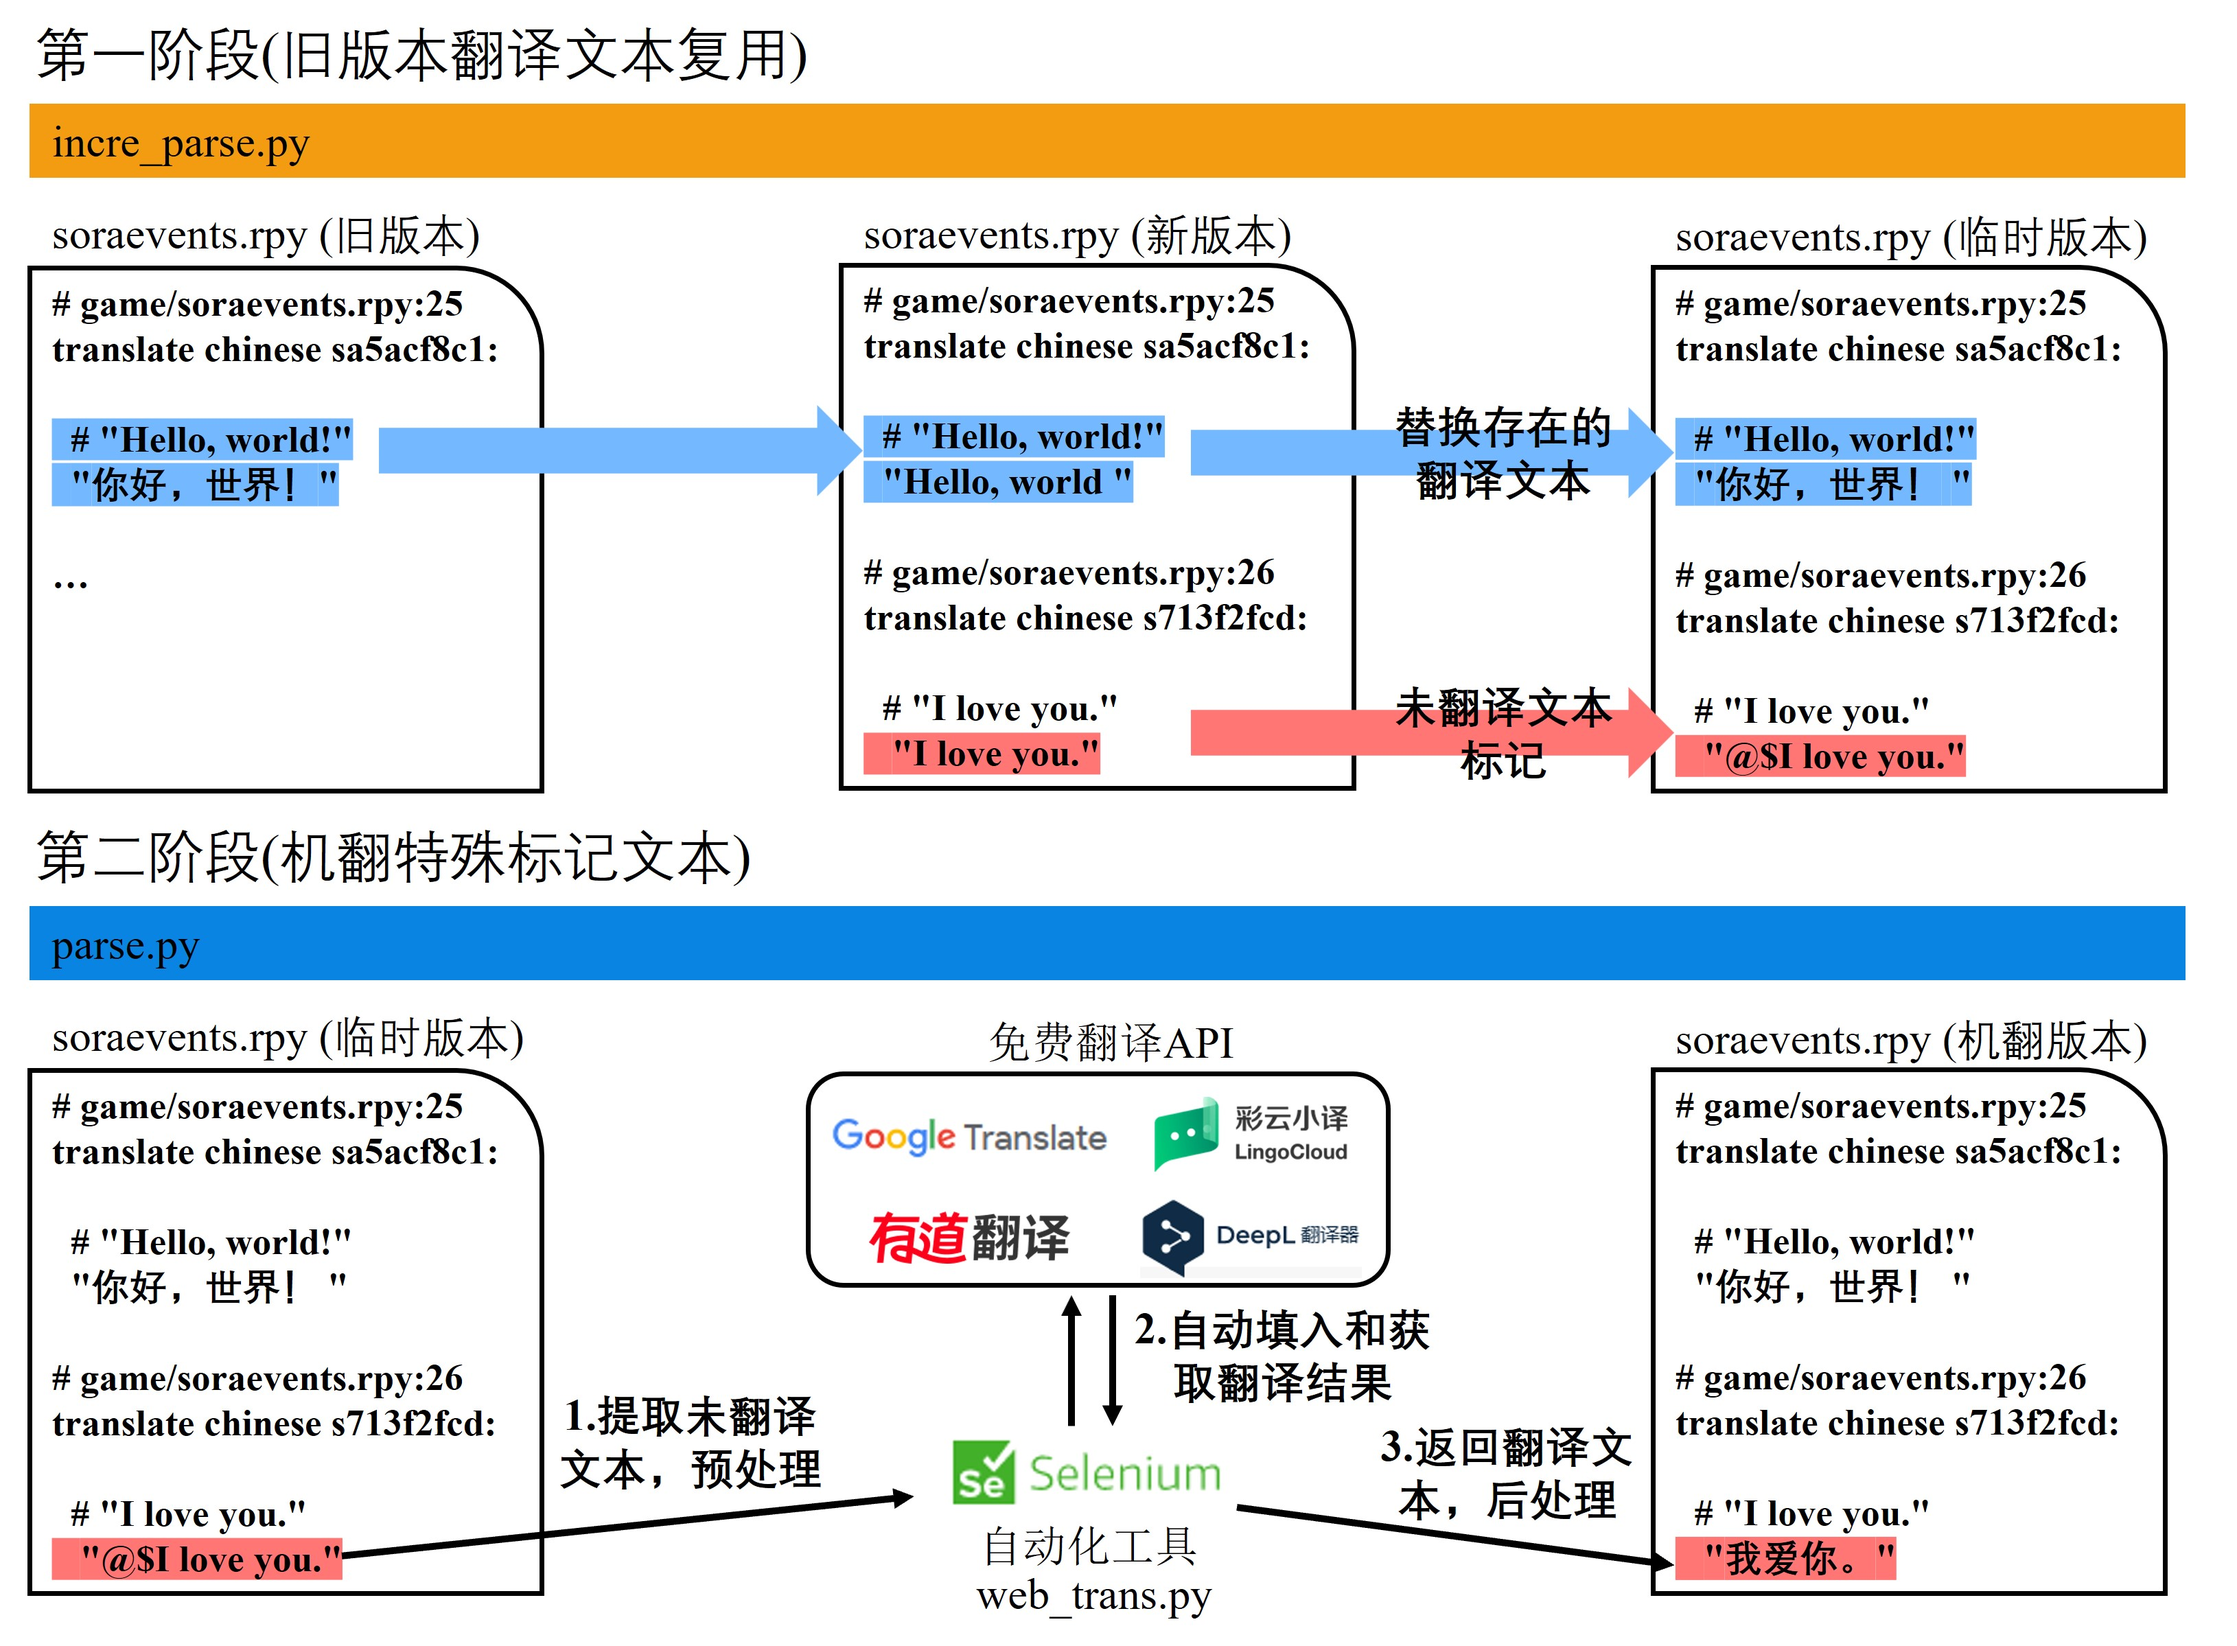
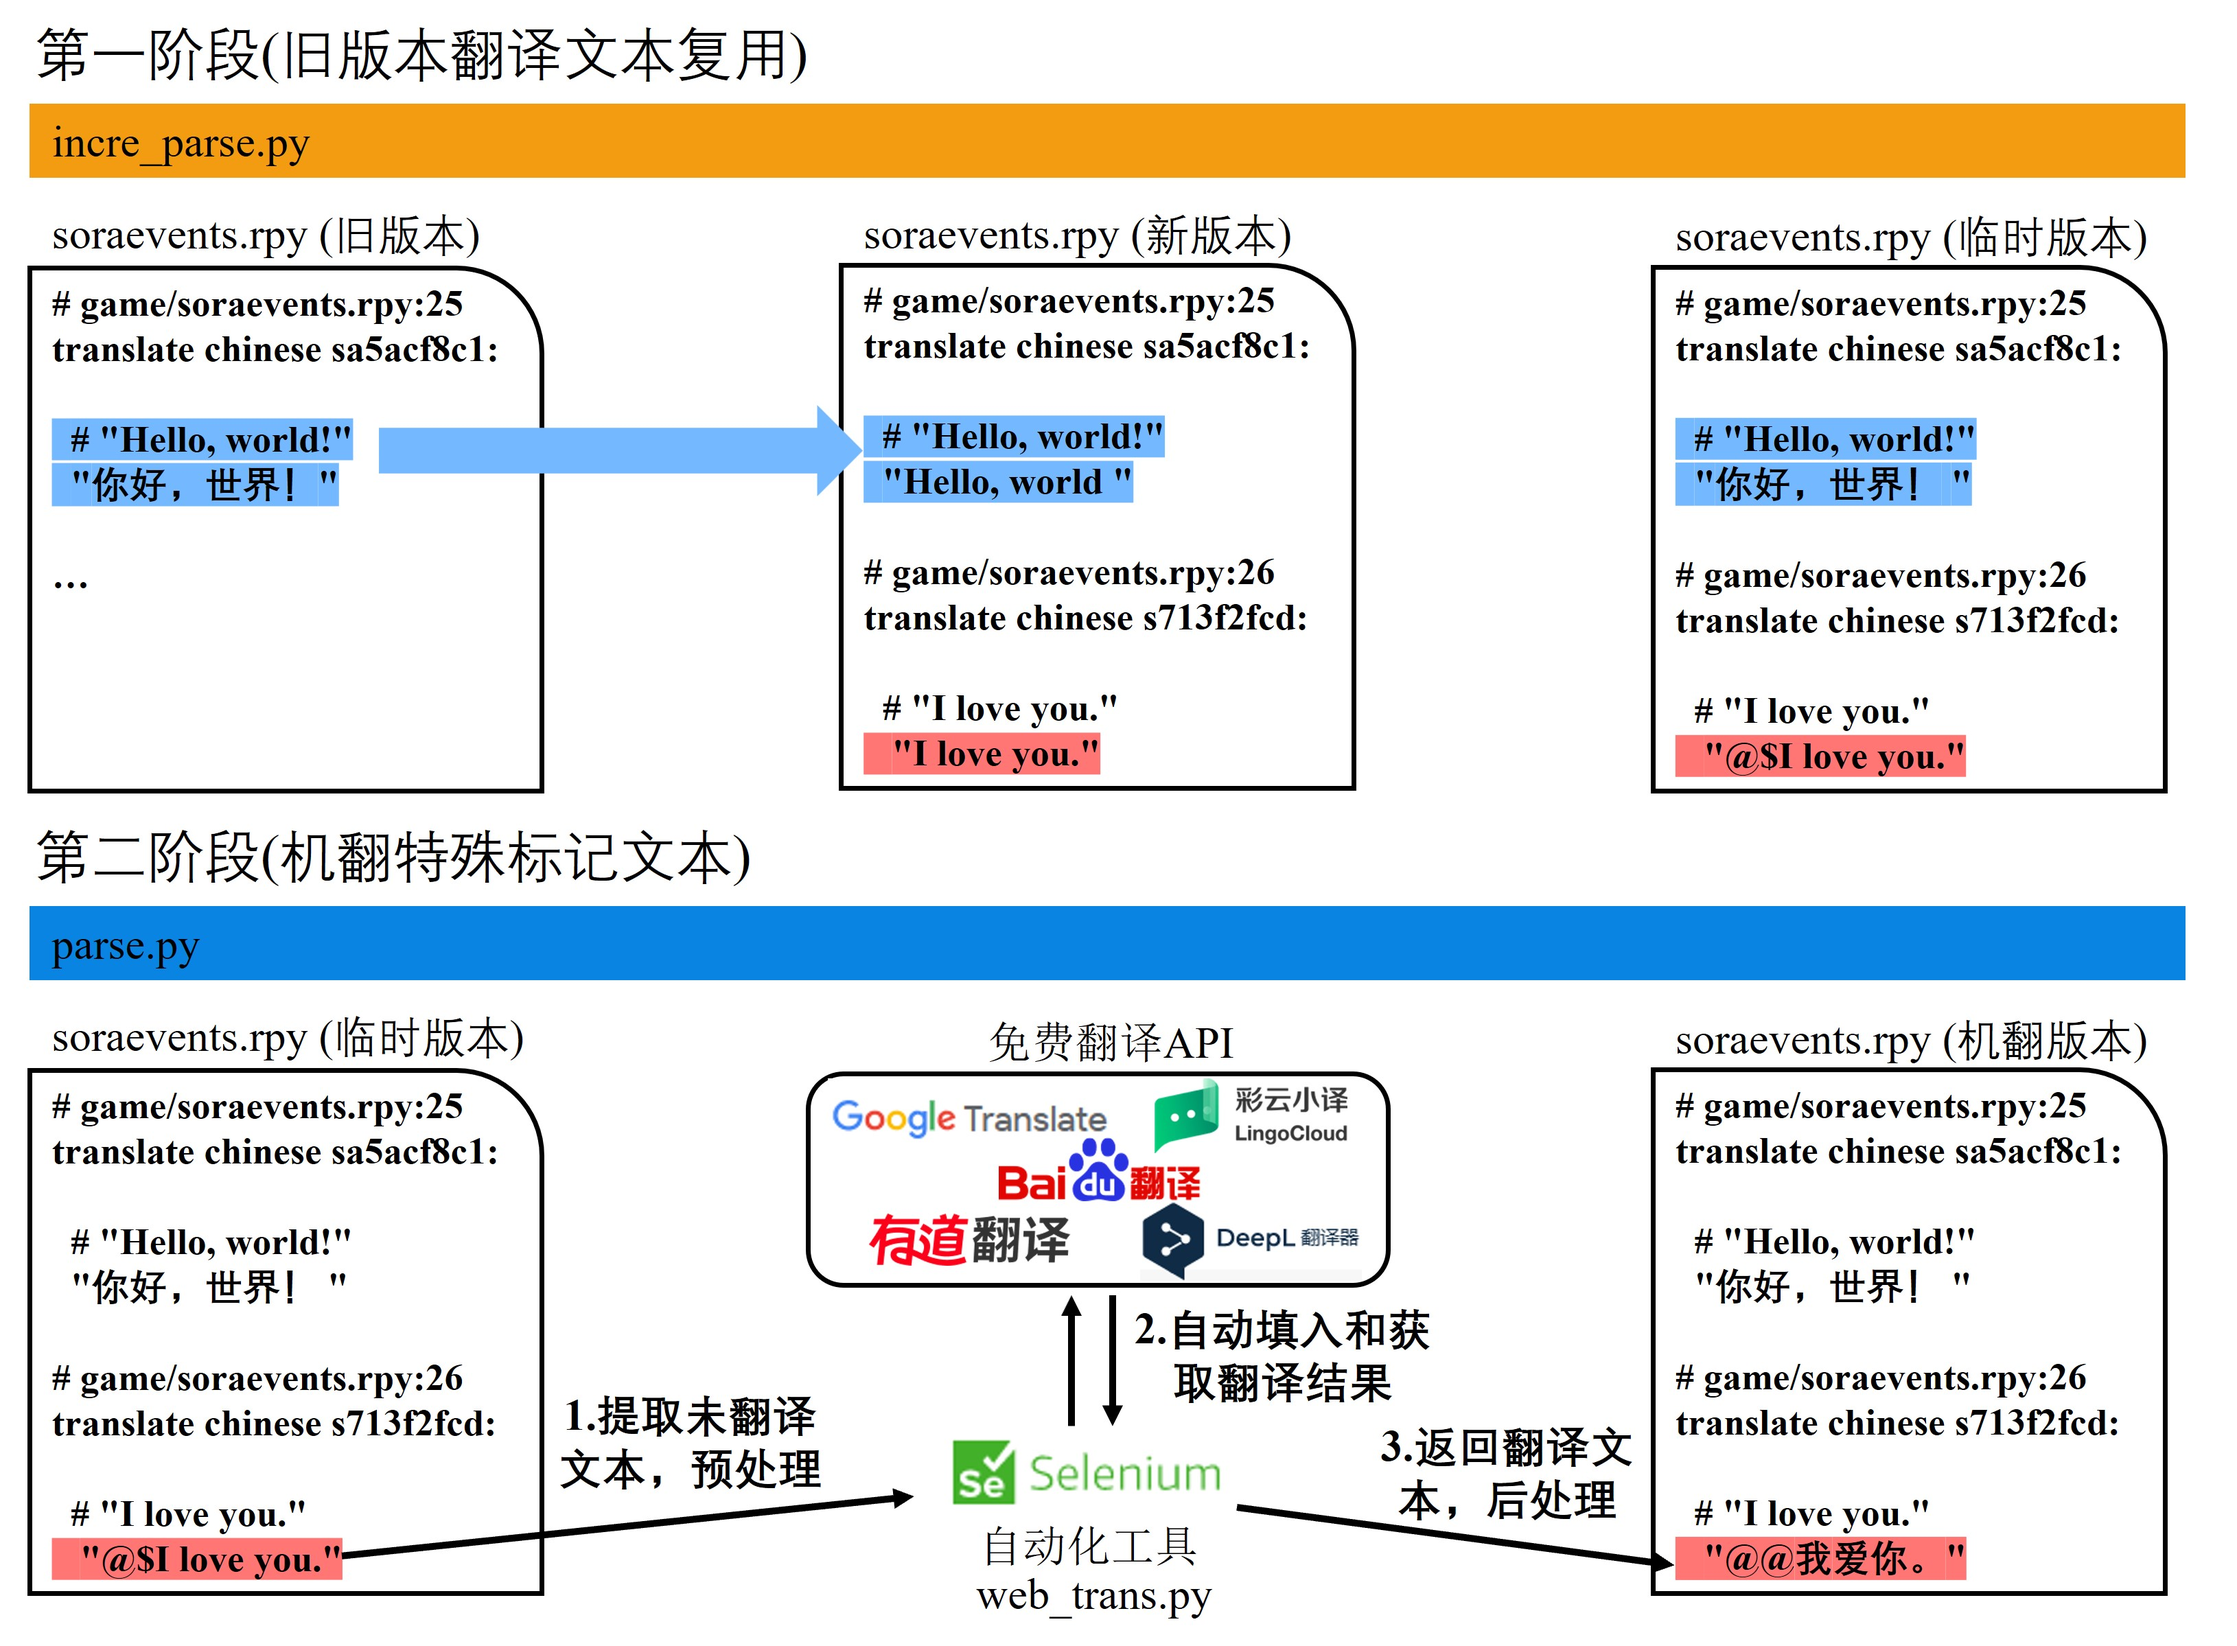
在第二阶段后的机翻文本前面进行特殊标记，方便后期编辑

diff --git a/parse.py b/parse.py
@@ -12,7 +12,7 @@ from trans.web_trans import wrap_web_trans
 from util.file import exists_file, file_name, mkdir, exists_dir
 from util.misc import var_list, text_type, TEXT_TYPE, is_empty, replacer
 
-
+keep_mark = True
 def parse_text(text: str, translator=None):
     raw_text, ttype = text_type(text)
     if ttype == TEXT_TYPE.NEW:
@@ -40,6 +40,8 @@ def parse_text(text: str, translator=None):
         for i in range(len(res)):
             trans_txt = trans_txt.replace(tmp_res[i], res[i])
             trans_txt = trans_txt.replace(tmp_res[i].lower(), res[i])
+        if keep_mark:
+            trans_txt = '@@' + trans_txt
         return text.replace(raw_text, trans_txt)
     return text
 
@@ -68,7 +70,6 @@ def parse_files(rpy_files, save_dir, translator):
 
 
 
-
 def main():
     time_start = time.time()
     print("RenPy rpy文件机翻工具")
@@ -83,6 +84,11 @@ def main():
         nargs="+",
     )
     parser.add_argument(
+        "--no_mark",
+        action='store_true',
+        help="not adding '@@' to the front of translated texts",
+    )
+    parser.add_argument(
         "--driver",
         type=str,
         required=True,
@@ -92,7 +98,7 @@ def main():
         "-t",
         "--trans_api",
         type=str,
-        default='google',
+        default='caiyun',
         choices=['caiyun', 'youdao', 'deepl', 'google', 'baidu'],
         help="the translation API to use",
     )
@@ -105,6 +111,8 @@ def main():
     )
     args = parser.parse_args()
     print(args)
+    global keep_mark
+    keep_mark = not args.no_mark
     # create the dir of translated files
     mkdir(args.save)
     # build the selected translator

diff --git a/README.md b/README.md
@@ -12,8 +12,6 @@
 
 ---
 
-
-
 ## 1.目的
 
 在同一个RenPy游戏中，对于一个已经精翻的rpy文件（比如，来自某个版本V0.28），里面的翻译文本其实在新版本的rpy文件（V0.29）中是可以复用的。因此我们可以先把旧版本可用翻译文本替换到新版本中，然后对于那些没有替换的文本再进行机翻，大大地节省时间。
@@ -24,7 +22,7 @@
 
 1. `incre_parse.py` 将新版本的rpy文件中可以在旧版rpy文件找到的翻译文本进行进行替换，而对于没有旧版rpy文件没有翻译文本，进行标记，交给下一个阶段进行机翻。此时会生成一个临时版本的rpy文件，其格式按照新版本的rpy，但是如果文本的翻译可以在旧版rpy文件找到，则使用旧版rpy文件的翻译文本，如果找不到对应的翻译文本则对该文本进行特殊标记。
 
-2. `parse_.py`遍历上一个阶段的临时版本的rpy文件，如果某行文本含有特殊标记，则调用翻译API进行翻译，否则保持不变。完成后会生成一个翻译好的rpy文件。
+2. `parse_.py`遍历上一个阶段的临时版本的rpy文件，如果某行文本含有特殊标记，则调用翻译API进行翻译，否则保持不变。完成后会生成一个翻译好的rpy文件。(<mark>为了辨别机翻文本，第二阶段后的机翻文本仍在文本前进行特殊标记`@@`，方便后期手动润色</mark>)
 
 示意图：
 ![](./imgs/pipline.jpg)
@@ -198,7 +196,7 @@ projz/
 `parse.py`参数如下
 
 ```shell
-python parse.py FILENAME/DIRNAME --driver DRIVER [-t API_NAME] [-s SAVE]
+python parse.py FILENAME/DIRNAME --driver DRIVER [-t API_NAME] [--no_mark] [-s SAVE]
 ```
 
 - `FILENAME/DIRNAME`表示要进行机翻的rpy目录或者rpy文件路径，不会递归扫描文件夹。
@@ -210,32 +208,36 @@ python parse.py FILENAME/DIRNAME --driver DRIVER [-t API_NAME] [-s SAVE]
   ```
 
 - `--driver DRIVER`表示第3节 `4.文件准备` 中解压好的chrom edriver文件的路径，例如：
+  
+  ```
+  --driver "G:\Admin\Downloads\chromedriver_win32\chromedriver.exe"
+  ```
+  
+  如果觉得每次都要指定很麻烦，请在`parse.py`设置该参数的默认值：
+  
+  ```python
+  parser.add_argument(
+      "--driver",
+      type=str,
+      default=r"G:\Admin\Downloads\chromedriver_win32\chromedriver.exer",
+      required=True,
+      help="the executable path for the chrome driver",
+  )
+  ```
 
-```
---driver "G:\Admin\Downloads\chromedriver_win32\chromedriver.exe"
-```
+- `-t API_NAME`表示使用翻译API，默认为`caiyun`，可选的有：`['caiyun', 'youdao', 'deepl', 'google', 'baidu']`，~~建议使用google翻译，对于文本的中字符格式化标签能保留下来，即"{i}Hello world{/i}"翻译后”{i}你好世界{/i}“。对于其他翻译API我在翻译前手动去除了这些标签：~~
+  
+  ```python
+  def translate(self, rawtext):
+      res = strip_breaks(rawtext) # 去除换行符，和文本头尾的空白字符
+      res = strip_tags(res)  # 去除字符格式化标签
+  ```
+  
+  注意：由于存在问题，google翻译前也去除了这些标签。
 
-如果觉得每次都要指定很麻烦，请在`parse.py`设置该参数的默认值：
+- `-s SAVE`表示保存机翻ryp文件目录，默认为`./translated`。如果`FILENAME/DIRNAME`参数含有文件夹，则会在`./translated`目录生成一个同名的文件夹，然后保存机翻的rpy文件到这个同名的文件夹里面；如果`FILENAME/DIRNAME`参数含文件，则直接在`./translated``生成同名的机翻的rpy文件。
 
-```python
-parser.add_argument(
-    "--driver",
-    type=str,
-    default=r"G:\Admin\Downloads\chromedriver_win32\chromedriver.exer",
-    required=True,
-    help="the executable path for the chrome driver",
-)
-```
-
-- `-t API_NAME`表示使用翻译API，默认为`google`，可选的有：`['caiyun', 'youdao', 'deepl', 'google', 'baidu']`，建议使用google翻译，对于文本的中字符格式化标签能保留下来，即"{i}Hello world{/i}"翻译后”{i}你好世界{/i}“。对于其他翻译API我在翻译前手动去除了这些标签：
-
-```python
-def translate(self, rawtext):
-    res = strip_breaks(rawtext) # 去除换行符，和文本头尾的空白字符
-    res = strip_tags(res)  # 去除字符格式化标签
-```
-
-`-s SAVE`表示保存机翻ryp文件目录，默认为`./translated`。如果`FILENAME/DIRNAME`参数含有文件夹，则会在`./translated`目录生成一个同名的文件夹，然后保存机翻的rpy文件到这个同名的文件夹里面；如果`FILENAME/DIRNAME`参数含文件，则直接在`./translated``生成同名的机翻的rpy文件。
+- `--no_mark`表示是否去除机翻文本前面特殊标记`@@`，如果指定该参数则会去除，默认不会去除。如果是为了后期润色翻译文本，请不要指定该参数，后面通过查找`@@`标记来手工润色文本。
 
 #### 5.2.2 执行命令
 
@@ -378,7 +380,7 @@ parser.add_argument(
   
   示意图：
   
-  ![](./imgs/compare.jpg)参数：`-o`含有旧版本的rpy文件的文件夹，默认值`./old_ver` ；`-n`含有新版本的rpy文件的文件夹，默认值`./old_ver`；`-s`保存excel文件保存位置，默认值`./fc_res`
+  ![](./imgs/compare.jpg)参数：`-o`含有旧版本的rpy文件的文件夹，默认值`./old` ；`-n`含有新版本的rpy文件的文件夹，默认值`./old`；`-s`保存excel文件保存位置，默认值`./fc_res`
 
 ## 其他问题
 
@@ -389,6 +391,7 @@ parser.add_argument(
         res = strip_breaks(rawtext)
         res = strip_tags(res)  # 加上这个
   ```
+
 - 翻译文本中含有Emoji表情将导致第二阶段崩溃，请手动翻译在`./tmp`文件夹下的对应文件含有带有Emoji表情的文本，并去除特殊标记`@$`，然后在再执行第二阶段的代码。
 
 ## Todo
